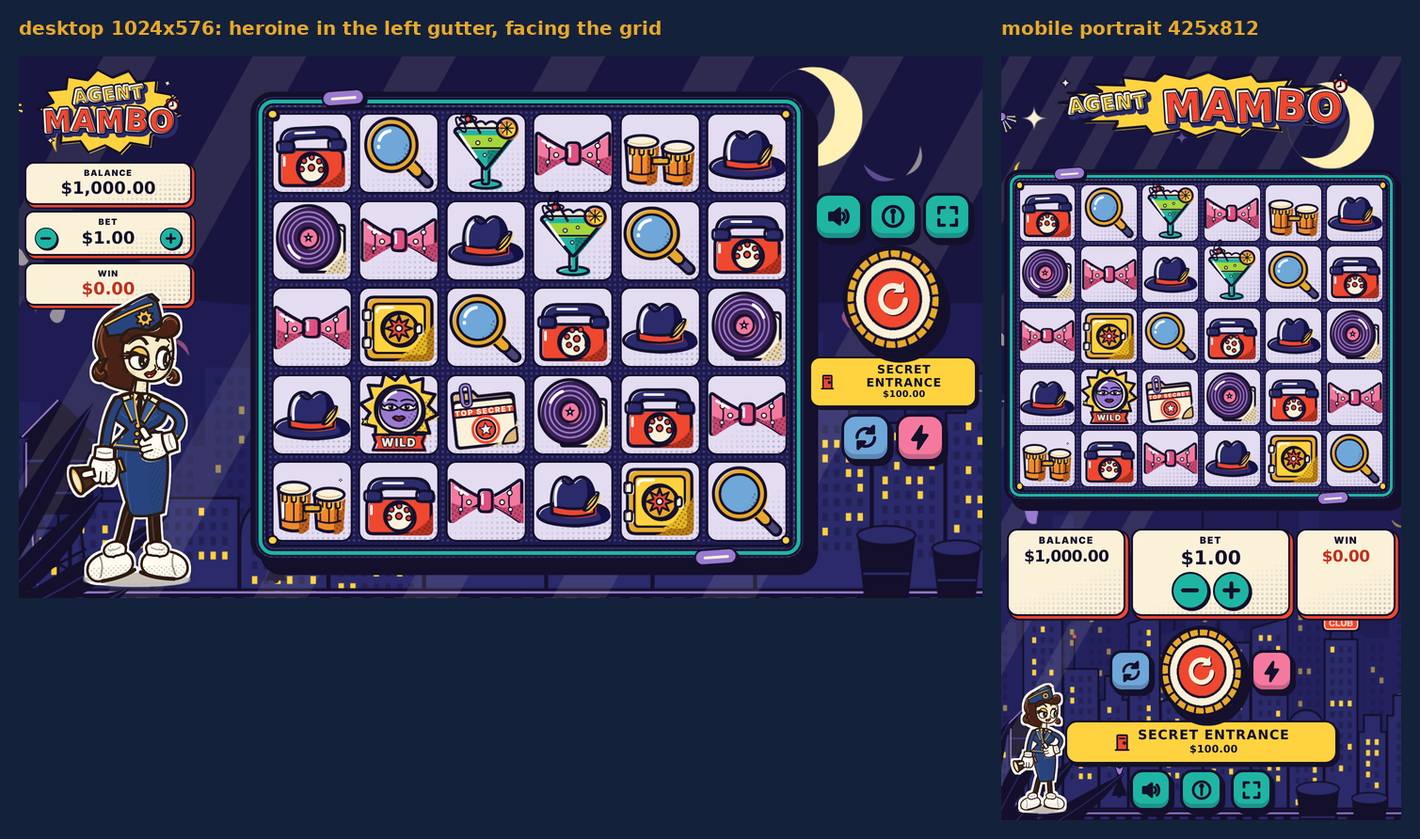
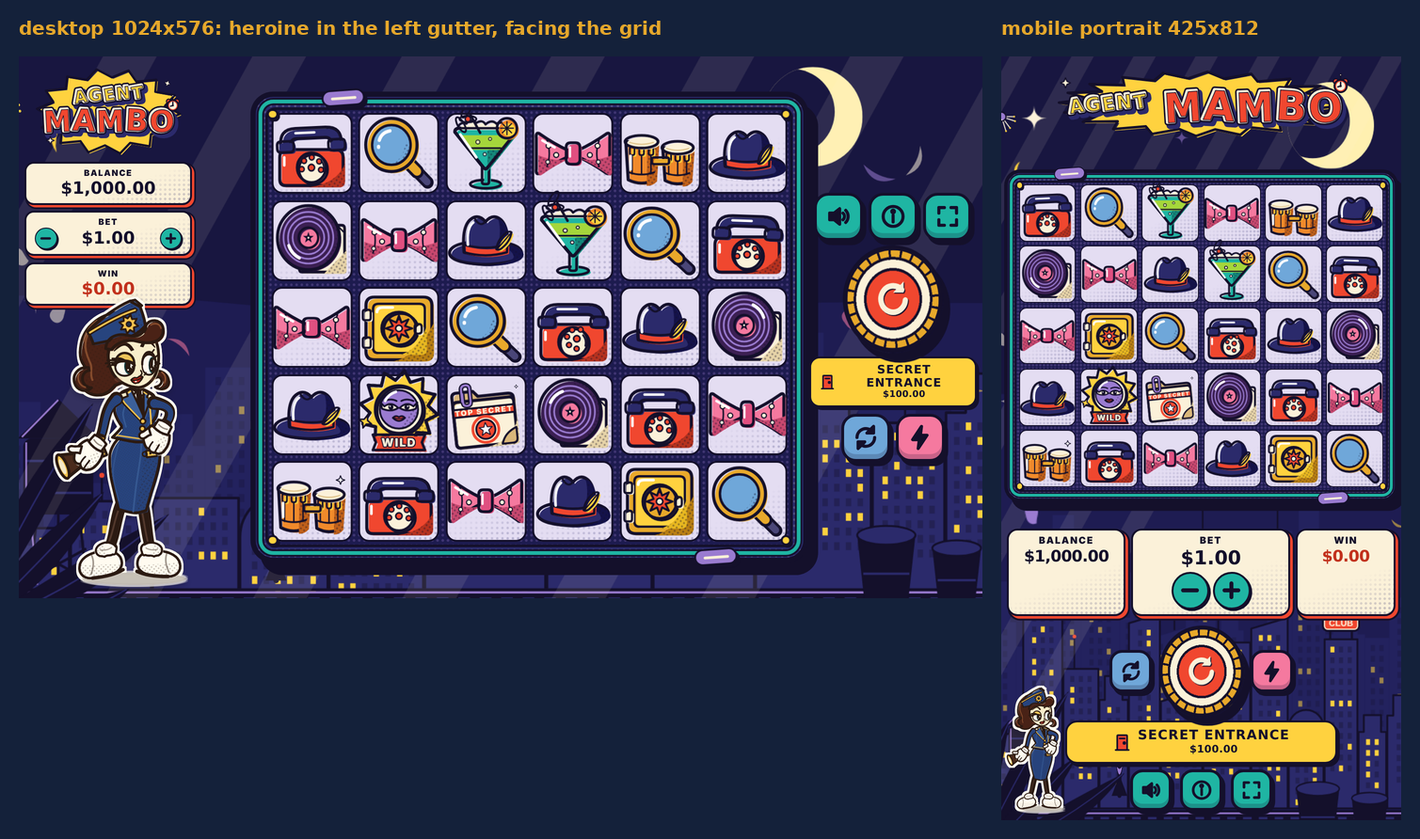
Agent Mambo v2 art pass 2: S-curve 3/4 body on all five outfits, slim tapered limbs, 11 gloves with blended thumb, new head and neck, bust and head crops, mirror option, regenerated board, sheets and mock-ups
Claude-Session: https://claude.ai/code/session_01VPnHYWw1WXuybpegvtqvRs

diff --git a/docs/research2/art/board.html b/docs/research2/art/board.html
@@ -3,51 +3,96 @@
   :root{--ink:#2B1A12;--cream:#F4E8C8;--mustard:#E8A92B;--night:#14213A;--turq:#2E8C8C}
   *{box-sizing:border-box} html,body{margin:0;background:var(--night);color:var(--cream);font-family:"Trebuchet MS",Arial,sans-serif}
   #b{width:2000px;padding:26px 30px 34px}
-  h1{margin:0 0 4px;font-size:44px;letter-spacing:.04em;color:var(--mustard);-webkit-text-stroke:0}
-  .sub{font-size:19px;margin-bottom:18px;color:#cfd8d6}
-  h2{font-size:23px;margin:22px 0 8px;color:var(--turq);text-transform:uppercase;letter-spacing:.12em}
-  .row{display:flex;gap:10px;align-items:flex-end}
-  .cell{position:relative;background:#E9B02C;border:4px solid var(--ink);border-radius:14px;overflow:visible}
-  .cell>.cap{position:absolute;left:0;right:0;bottom:0;background:rgba(43,26,18,.88);color:var(--cream);font-size:15px;padding:5px 9px;border-radius:0 0 9px 9px;z-index:3}
-  .cell .hero{position:absolute;left:0;right:0;top:0;bottom:30px}
-  .cell img{position:absolute;left:50%;top:6px;height:calc(100% - 40px);transform:translateX(-50%)}
-  .face{background:#F0C040;overflow:hidden}.face .hero{overflow:hidden}.face svg{overflow:hidden!important}
+  h1{margin:0 0 4px;font-size:44px;letter-spacing:.04em;color:var(--mustard)}
+  .sub{font-size:19px;margin-bottom:14px;color:#cfd8d6;max-width:1900px;line-height:1.35}
+  h2{font-size:23px;margin:24px 0 8px;color:var(--turq);text-transform:uppercase;letter-spacing:.12em}
+  .row{display:flex;gap:10px;align-items:flex-end;flex-wrap:wrap}
+  .cell{position:relative;background:#E9B02C;border:4px solid var(--ink);border-radius:14px;overflow:hidden;flex:none}
+  .cell.model{background:#F2BE1E}
+  .cell>.cap{position:absolute;left:0;right:0;bottom:0;background:rgba(43,26,18,.88);color:var(--cream);font-size:15px;padding:5px 9px;z-index:3}
+  .cell .hero{position:absolute;left:0;right:0;top:0;bottom:28px}
+  .cell svg.m{position:absolute;left:0;top:0;width:100%;height:calc(100% - 28px)}
+  .face{background:#F0C040}
+  .px{display:flex;gap:10px;align-items:flex-start;flex-wrap:wrap}
+  .px .cell{border-width:2px;border-radius:6px}
+  .note{font-size:16px;color:#cfd8d6;margin:4px 0 8px;max-width:1900px;line-height:1.35}
+  .hand{background:#E8B83A;border-radius:10px;border:3px solid var(--ink);position:relative;flex:none;overflow:hidden}
+  .hand b{position:absolute;left:6px;bottom:3px;font-size:14px;color:var(--ink)}
 </style></head><body><div id="b"></div>
 <script type="module">
-import { createHeroine } from './mambo_rig.mjs';
-const B = document.getElementById('b'); const q = new URLSearchParams(location.search);
-const H = 540, SM = 400;
-const label = { idle:'idle', smallwin:'small win', bigwin:'big win', shock:'shock', shrug:'lose / shrug', point:'point at grid', salute:'salute', anticipation:'anticipation', whistle:'whistle', impatient:'impatient', laugh:'laugh', curtsy:'curtsy' };
-function cell(parent, w, h, cap) { const c = document.createElement('div'); c.className = 'cell'; c.style.cssText = `width:${w}px;height:${h}px`; c.innerHTML = `<div class="hero"></div><div class="cap">${cap}</div>`; parent.appendChild(c); return c; }
-function hero(c, outfit, pose, opts = {}) {
-  const h = createHeroine(c.querySelector('.hero'), { outfit, raf: false, idle: false, limited: 0, ...opts });
-  h.setPose(pose, { snap: true }); if (opts.set) h.set(opts.set, true); h.snap();
-  const vb = opts.vb || (pose === 'point' ? '20 50 450 530' : pose === 'shrug' || pose === 'curtsy' ? '30 50 340 530' : pose === 'bigwin' || pose === 'shock' ? '45 -5 310 575' : '45 50 310 530');
-  c.querySelector('svg').setAttribute('viewBox', vb);
+// Board generator (dev tool, not shipped): model sheets (AI reference, never shipped) next to the live vector rig. Everything on the rig side is generated
+// by mambo_rig.mjs from hand-written Bezier paths. The model side is only a visual reference for the comparison.
+import { createHeroine, CROPS } from './mambo_rig.mjs';
+import { makeCtx, defsCommon, gloveKinds, GLOVE_KIND_NAMES, PAL } from './mambo_art.mjs';
+const B = document.getElementById('b');
+const SHEET = { idle: [358, 410], point: [916, 410], smallwin: [1674, 338], bigwin: [410, 1126], shock: [983, 1085], shrug: [1669, 1096] };
+const CELLRECT = { idle: [0, 0, 690, 680], point: [650, 0, 760, 680], smallwin: [1365, 0, 683, 680], bigwin: [0, 680, 690, 680], shock: [690, 680, 680, 680], shrug: [1365, 680, 683, 680] };
+const kk = 0.784, label = { idle: 'idle', smallwin: 'small win', bigwin: 'big win', shock: 'shock', shrug: 'lose / shrug', point: 'point at grid', salute: 'salute', anticipation: 'anticipation', whistle: 'whistle', impatient: 'impatient', laugh: 'laugh', curtsy: 'curtsy' };
+const VB = { point: '0 30 440 560', default: '40 30 340 560', wide: '20 30 380 560', jump: '30 -10 350 580' };
+const q = new URLSearchParams(location.search);
+function add(parent, tag, cls, html) { const e = document.createElement(tag); if (cls) e.className = cls; if (html) e.innerHTML = html; parent.appendChild(e); return e; }
+function cell(parent, w, h, cap, cls = '') { const c = add(parent, 'div', 'cell ' + cls, `<div class="hero"></div><div class="cap">${cap}</div>`); c.style.cssText = `width:${w}px;height:${h}px`; return c; }
+function hero(c, outfit, pose, o = {}) {
+  const h = createHeroine(c.querySelector('.hero'), { outfit, raf: false, idle: false, limited: 0, crop: o.crop || 'full', mirror: !!o.mirror, seed: 7 });
+  h.setPose(pose, { snap: true }); if (o.mood) h.setMood(o.mood); if (o.set) h.set(o.set, true); h.snap(); for (let i = 0; i < (o.settle ?? 14); i++) h.step(1 / 60);
+  if (o.mouth) h.setMouth(o.mouth, 0); if (o.look) h.setLook(o.look); h.render();
+  const svg = c.querySelector('.hero svg'); if (o.vb) svg.setAttribute('viewBox', o.vb); svg.setAttribute('preserveAspectRatio', 'xMidYMax meet'); svg.style.overflow = 'hidden';
   return h;
 }
-B.innerHTML = `<h1>AGENT MAMBO · the heroine, hand-built vector rig</h1><div class="sub">Part-based skeletal rig, noodle limbs rebuilt every frame, 8-viseme morphing mouth, eyes with lids / lashes / tracking pupils. Left of each pair: Higgsfield model sheet (visual reference only, not shipped). All other cells: generated live by mambo_rig.mjs from paths only.</div>`;
-// --- section 1: model vs rig
-let s = document.createElement('h2'); s.textContent = 'A · Inspectrice (base outfit): model sheet vs vector rig'; B.appendChild(s);
-let r = document.createElement('div'); r.className = 'row'; B.appendChild(r);
-const m = cell(r, 330, H, 'Model sheet (AI reference, not shipped)'); const k = (H - 40) / 1510;
-m.querySelector('.hero').style.cssText += `;background:url(higgs/base_v2_b.png) no-repeat;background-size:${1195 * k}px auto;background-position:${165 - 590 * k}px ${8 - 30 * k}px;`;
-m.style.overflow = 'hidden';
-const mine = cell(r, 330, H, 'Vector rig · idle'); hero(mine, 'inspectrice', 'idle');
-for (const p of ['smallwin', 'point', 'bigwin', 'shock']) { const c = cell(r, 330, H, 'rig · ' + label[p]); hero(c, 'inspectrice', p); }
-r = document.createElement('div'); r.className = 'row'; r.style.marginTop = '10px'; B.appendChild(r);
-for (const p of ['shrug', 'anticipation', 'whistle', 'impatient', 'laugh', 'salute', 'curtsy']) { const c = cell(r, 258, 410, 'rig · ' + label[p]); hero(c, 'inspectrice', p); }
-// --- expressions close-ups
-s = document.createElement('h2'); s.textContent = 'Expressions (same face rig, close-up)'; B.appendChild(s);
-r = document.createElement('div'); r.className = 'row'; B.appendChild(r);
-const faces = [['idle', 'sly side-eye'], ['smallwin', 'wink + grin'], ['bigwin', 'star eyes + laugh'], ['shock', 'wide eyes + O'], ['laugh', 'joy arcs'], ['whistle', 'whistle pucker'], ['shrug', 'wry eye-roll']];
-for (const [p, cap] of faces) { const c = cell(r, 250, 260, cap); c.classList.add('face'); hero(c, 'inspectrice', p, { vb: '116 56 196 176' }); }
-// --- section 2: other outfits
-const outs = [['casino', 'B · Casino evening (gown, mask, fan)'], ['lab', 'C · Laboratory (coat, butterfly glasses, test tube)'], ['vault', 'D · Vault / commando (jumpsuit, aviator cap, hook)'], ['trench', 'E · Trench and fedora (magnifying glass)']];
+function modelCell(parent, pose, w, h, vb) {
+  const [hx, hy] = SHEET[pose], [cx, cy, cw, ch] = CELLRECT[pose];
+  const c = cell(parent, w, h, 'Model sheet · ' + label[pose] + ' (AI reference, not shipped)', 'model'); c.querySelector('.hero').remove();
+  const id = 'clip' + pose, x0 = 200 - hx * kk, y0 = 346 - hy * kk;
+  c.insertAdjacentHTML('afterbegin', `<svg class="m" viewBox="${vb}" preserveAspectRatio="xMidYMax meet" xmlns="http://www.w3.org/2000/svg"><defs><clipPath id="${id}"><rect x="${x0 + cx * kk}" y="${y0 + cy * kk}" width="${cw * kk}" height="${ch * kk}"/></clipPath></defs><g clip-path="url(#${id})"><image href="higgs/pose_sheet_1.png" x="${x0}" y="${y0}" width="${2048 * kk}" height="${1360 * kk}"/></g></svg>`);
+  return c;
+}
+add(B, 'h1', '', 'AGENT MAMBO · the heroine, hand-built vector rig · art pass 2');
+add(B, 'div', 'sub', 'Part-based skeletal rig: shared S-curve body silhouette with a slight 3/4 turn toward the grid (she stands LEFT of the grid, facing right), slim tapered noodle arms and legs, 11 glove shapes with a blended thumb swap, 8-viseme morphing mouth, eyes with lids / lashes / tracking pupils. Left of each pair: the Higgsfield model sheet (visual reference only, never shipped). Every other cell is generated live by mambo_rig.mjs from hand-written paths only (no bitmap, no tracing).');
+
+// ---------------------------------------------------------------- A: six key poses vs model
+add(B, 'h2', '', 'A · Inspectrice (base outfit): model sheet vs vector rig, the six key poses');
+let r = add(B, 'div', 'row');
+for (const p of ['idle', 'point', 'smallwin', 'bigwin', 'shock', 'shrug']) {
+  const vb = p === 'point' ? VB.point : p === 'bigwin' || p === 'smallwin' ? VB.jump : VB.default;
+  modelCell(r, p, 300, 500, vb);
+  const c = cell(r, 300, 500, 'Vector rig · ' + label[p]); hero(c, 'inspectrice', p, { vb });
+}
+// ---------------------------------------------------------------- B: other poses
+add(B, 'h2', '', 'B · Other poses of the same rig (inspectrice)');
+r = add(B, 'div', 'row');
+for (const p of ['anticipation', 'whistle', 'impatient', 'laugh', 'salute', 'curtsy']) { const c = cell(r, 308, 470, 'rig · ' + label[p]); hero(c, 'inspectrice', p, { vb: VB.default }); }
+// ---------------------------------------------------------------- C: expressions
+add(B, 'h2', '', 'C · Expressions (same face rig, close-up)');
+r = add(B, 'div', 'row');
+for (const [p, cap] of [['idle', 'sly side-eye'], ['smallwin', 'wink + grin'], ['bigwin', 'star eyes + laugh'], ['shock', 'wide eyes + O'], ['laugh', 'joy arcs'], ['whistle', 'whistle pucker'], ['shrug', 'wry eye-roll']]) {
+  const c = cell(r, 250, 260, cap, 'face'); hero(c, 'inspectrice', p, { vb: '96 62 176 176' });
+}
+// ---------------------------------------------------------------- D: waist-up crop for portrait mobile
+add(B, 'h2', '', 'D · Waist-up crop for portrait mobile (crop: "bust"): real pixel size 120 px wide, then 2x');
+add(B, 'div', 'note', 'createHeroine(el, { crop: "bust" }) or h.setCrop("bust"): bust, cap and eyes stay readable at 120 px wide; the lower body is hidden and not even updated (cheaper frames). crop "head" is the face-and-cap avatar (64 px and up). Mirrored crops follow the mirror option.');
+r = add(B, 'div', 'px');
+const O5 = ['inspectrice', 'casino', 'lab', 'vault', 'trench'];
+for (const o of O5) { const c = cell(r, 120, 172, '', ''); c.querySelector('.cap').remove(); c.querySelector('.hero').style.bottom = '0'; hero(c, o, 'idle', { crop: 'bust', vb: null }); }
+for (const [o, p] of [['inspectrice', 'smallwin'], ['inspectrice', 'shock'], ['casino', 'idle'], ['lab', 'laugh']]) { const c = cell(r, 120, 172, '', ''); c.querySelector('.cap').remove(); c.querySelector('.hero').style.bottom = '0'; hero(c, o, p, { crop: 'bust' }); }
+for (const [o, p] of [['inspectrice', 'idle'], ['inspectrice', 'smallwin'], ['casino', 'idle']]) { const c = cell(r, 240, 342, '', ''); c.querySelector('.cap').remove(); c.querySelector('.hero').style.bottom = '0'; hero(c, o, p, { crop: 'bust' }); }
+for (const p of ['idle', 'smallwin', 'shock']) { const c = cell(r, 96, 106, '', ''); c.querySelector('.cap').remove(); c.querySelector('.hero').style.bottom = '0'; hero(c, 'inspectrice', p, { crop: 'head' }); }
+// ---------------------------------------------------------------- E: gloves
+add(B, 'h2', '', 'E · Glove shapes (11 kinds, the thumb exists on both sides and cross-fades: no mirror pop)');
+r = add(B, 'div', 'row');
+for (const k of GLOVE_KIND_NAMES) {
+  const c = makeCtx({ idPrefix: 'gl' + k + '-' }), kinds = gloveKinds(c, { glove: PAL.white }, 'x');
+  const d = add(r, 'div', 'hand', `<svg width="150" height="168" viewBox="-44 -22 88 98" xmlns="http://www.w3.org/2000/svg"><defs>${defsCommon(c.pre)}${c.defs.join('')}</defs>${kinds[k]}</svg><b>${k}</b>`);
+  d.style.cssText = 'width:150px;height:168px';
+}
+// ---------------------------------------------------------------- F: mirror
+add(B, 'h2', '', 'F · Mirror option (she may stand on the right of the grid: one flipped group, particles and look targets follow)');
+r = add(B, 'div', 'row');
+for (const [m, p, o] of [[false, 'point', 'inspectrice'], [true, 'point', 'inspectrice'], [true, 'idle', 'casino'], [true, 'smallwin', 'lab'], [true, 'shock', 'vault']]) { const c = cell(r, 300, 470, (m ? 'mirror · ' : 'normal · ') + o + ' ' + p); hero(c, o, p, { mirror: m, vb: m ? '0 30 440 560' : VB.point }); }
+// ---------------------------------------------------------------- G: other outfits
+const outs = [['casino', 'B · Casino evening (gown, domino mask, fan)'], ['lab', 'C · Laboratory (coat, butterfly glasses, test tube)'], ['vault', 'D · Vault / commando (jumpsuit, aviator cap, hook)'], ['trench', 'E · Trench and fedora (magnifying glass)']];
 for (const [o, t] of outs) {
-  s = document.createElement('h2'); s.textContent = t; B.appendChild(s);
-  r = document.createElement('div'); r.className = 'row'; B.appendChild(r);
-  for (const p of ['idle', 'point', 'smallwin', 'bigwin', 'shock', 'shrug']) { const c = cell(r, 318, 470, label[p]); hero(c, o, p); }
+  add(B, 'h2', '', t); r = add(B, 'div', 'row');
+  for (const p of ['idle', 'point', 'smallwin', 'bigwin', 'shock', 'shrug']) { const vb = p === 'point' ? VB.point : p === 'bigwin' || p === 'smallwin' ? VB.jump : VB.default; const c = cell(r, p === 'point' ? 360 : 300, 460, p === 'shrug' ? 'lose / shrug' : label[p]); hero(c, o, p, { vb }); }
 }
 window.__ready = true;
 </script></body></html>

diff --git a/docs/research2/art/NOTES_heroine.md b/docs/research2/art/NOTES_heroine.md
@@ -1,6 +1,6 @@
 # Mambo, the animated vector heroine (Agent Mambo v2)
 
-Author: ART agent. Status: working rig, five costumes, 12 poses, 20 clips, demo, test harness, board and mock-ups. No commit/push done.
+Author: ART agent (pass 1), ART2 agent (pass 2, see section 12). Status: working rig, five costumes, 12 poses, 20 clips, demo, test harness, board and mock-ups. Pass 2 (body redraw, gloves, crop, mirror) is committed; the running log is `docs/v2/NOTES_ART2.md`.
 
 ## 1. What was decided and why (brief history, the last brief wins)
 
@@ -12,21 +12,22 @@ Author: ART agent. Status: working rig, five costumes, 12 poses, 20 clips, demo,
 
 | File | Role |
 |---|---|
-| `mambo_art.mjs` | Palette, geometry helpers, primitives (outline + print offset + halftone), gloves (5 kinds), shoe, face (hair, face, eyes, brows, 8-viseme mouth), `faceLayout(turn)`. DOM-free. |
+| `mambo_art.mjs` | Palette, geometry helpers (`spl`, `lut`, `tubeD`), the shared body silhouette `SIL` + `garmentD`, primitives (outline + print offset + halftone + fine texture), 11 glove kinds, shoe, face (hair, face, eyes, brows, 8-viseme mouth), `faceLayout(turn)`. DOM-free. |
 | `mambo_outfits.mjs` | The 5 costumes (skirt/lower garment, torso, headgear, face gear, props). |
-| `mambo_rig.mjs` | **Runtime** (browser ES module, no dependency): `createHeroine`, `POSES`, `MOODS`, `CLIPS`, `Ease`. |
+| `mambo_rig.mjs` | **Runtime** (browser ES module, no dependency): `createHeroine`, `POSES`, `MOODS`, `CLIPS`, `CROPS`, `Ease`. |
 | `mambo_compat.mjs` | Drop-in adapter for the current mascot hook (`createMascot`, `setPose('happy'|'bigwin'|'shock'|'shrug'|'plunger'|'celebrate'...)`, `say`). |
 | `rig_demo.html` | Interactive demo: a button per clip, pose, outfit, mood, viseme, draggable look target, option toggles, frame cost readout. |
 | `rig_dev.html`, `board.html`, `hero_still.html` | Static review pages used by the scripts below. |
+| `compare.html`, `gloves.html`, `crop_test.html` | Pass 2 dev pages: model sheet vs rig vs overlay on a 10-unit grid (`?poses=idle,point&model=sheet&mode=1|2|4`), every glove kind, the waist-up crop at phone sizes. |
 | `rig_test.mjs` | Playwright harness: console errors, per-frame cost, contact sheets of clips, expression sheets (looks, visemes, eyes). |
 | `build_board.mjs`, `build_mockup.mjs`, `render_png.mjs` | Produce `heroine_board.png`, `heroine_mockup*.png`. |
 | `heroine_board.png` | Model sheet vs rig, 12 poses, 7 close-up expressions, the 4 other costumes x 6 poses. |
 | `sheets/*.png` | Contact sheets from `rig_test.mjs`: 8 gaze targets, 8 visemes, eye/lid states, 12-frame clips (winBig, shock, outfitChange, 12 more), readability at 100/300 px. |
 | `heroine_mockup.png` (1024x576), `heroine_mockup_mobile.png` (425x812), `heroine_mockup_sheet.png` | Composites on real screenshots of `frontend_mambo`, heroine on the **left** of the grid. |
 
-Run locally (any static server rooted at `docs/research2`): `python3 -m http.server 5731 --bind 127.0.0.1 --directory docs/research2`, then open `http://127.0.0.1:5731/art/rig_demo.html`. Tests: `node rig_test.mjs --out DIR --clips winBig,shock --frames 12 --dt 0.1 --perf 1 [--looks 1 --visemes 1 --eyes 1] [--reduced 1]` (Playwright from `PW_DIR`, default `/tmp/claude-0/pw`).
+Run locally (any static server rooted at `docs/research2`): `python3 -m http.server 5731 --bind 127.0.0.1 --directory docs/research2`, then open `http://127.0.0.1:5731/art/rig_demo.html`. Tests: `node rig_test.mjs --out DIR --url http://127.0.0.1:5731/art/rig_demo.html --soak 1 --crops 1 --perf 1 [--clips winBig,shock --frames 12 --dt 0.1] [--looks 1 --visemes 1 --eyes 1] [--reduced 1]` (Playwright from `PW_DIR`, default `/tmp/claude-0/pw`). `--soak` = 14,670 steps (every pose and every clip on each of the 5 outfits), `--crops` (pass 2) = 7,120 more steps through the bust / head crops and the mirror option, both must report `nonFinite: []`.
 
-Size: 107 KB of source in total (unminified: art 27 KB, outfits 23 KB, rig 57 KB, compat 3 KB). One costume = about 46 KB of SVG markup, 430 nodes, 137 named ids. Measured cost (headless Chromium, JS only, update + render): **0.17 ms average, 1-2 ms worst frame** over 600 frames of the busiest clips; the real-time demo shows ~0.6 ms average with confetti. Only attributes (`transform`, `d`, `opacity`, `display`, ellipse/rect numbers) are written, each only when its string changed. No layout reads in the frame loop (the only `getBoundingClientRect` is in `setLook({x,y})`).
+Size (pass 2): about 130 KB of source in total (unminified). One costume = about 60 KB of SVG markup (the gloves now carry 11 kinds x 2 thumbs per hand). Measured cost (headless Chromium, JS only, update + render): **0.2-0.27 ms average, 2-3 ms worst frame** over 600 frames of the busiest clips (pass 1: 0.17 ms; the limbs are now rebuilt as tapered outlines every frame); the real-time demo shows ~0.6 ms average with confetti. Only attributes (`transform`, `d`, `opacity`, `display`, ellipse/rect numbers) are written, each only when its string changed. No layout reads in the frame loop (the only `getBoundingClientRect` is in `setLook({x,y})`).
 
 ## 3. Public API
 
@@ -42,20 +43,21 @@ h.setPose('point')        // hold a pose (poses never end by themselves)
 h.setOutfit('casino', { animated: true })   // animated = paravent wipe clip, swap hidden behind the screen
 h.wink('L'|'R'), h.blink('normal'|'half'|'slow'), h.setMouth(viseme), h.fx(name), h.impulse({jump, sq, cap, hair, shake})
 h.set({param: value}), h.clear(), h.snap(), h.step(dt) /* manual stepping, tests */, h.render()
+h.setCrop('full'|'bust'|'head'), h.setMirror(bool)   // pass 2, see section 12; also options { crop, mirror } of createHeroine; h.crop / h.mirror read the state
 h.setReduced(bool), h.setIdle(bool), h.setLimited(hz), h.setSpeed(x), h.pause(), h.resume(), h.stats(), h.state(), h.destroy()
 ```
 `opts.raf:false` gives a fully manual loop (used by every test and still render). Everything is deterministic for a given `seed` (mulberry32; blink/saccade/idle director use it, clips are data).
 
 ## 4. Rig structure (what a front-end can grab)
 
-L / R always mean **screen** left / right. She faces **right** (toward the grid). viewBox `0 0 400 600`, ground y=566, figure centred on x=200, head pivot (neck) at (200,225), shoulders (161,258)/(239,258), waist (200,304), hip (200,346).
+L / R always mean **screen** left / right. She faces **right** (toward the grid) with a slight 3/4 body turn: the centre-front line of the garments sits about 14 units right of x=200 (`SIL.cl`). viewBox `0 0 400 600` (the `crop` option changes the window), ground y=566, figure centred on x=200, head pivot (neck) at (200,236), shoulders (165,253)/(232,255), waist (200,304), hip (200,346), ankles (156,524)/(234,524). The torso art is drawn in a frame lifted by `TORSO_LIFT` = 6 units (collar under the chin). `HEAD_PIVOT`, `HEAD_SCALE` and `REST` live in `mambo_art.mjs`.
 
 Group tree (all ids carry the per-instance prefix `mambo<N>-`; names below are without it):
-`root > root-t` (translate / ground-pivot rotate / squash and stretch) then `shadow`, `lower` (`legs > leg-l/-r` each `-ink` + `-fill` + `-sh` shine, `skirt > skirt-t`, `shoes > shoe-l/-r > shoe-*-t`), `upper > upper-t` (waist-pivot lean + breath) containing `arms-back`, `torso > torso-t` (chest breath; costume layer), `head > head-t` (neck-pivot tilt, offsets) with `hair-mass` (+ `hair-tuft` revealed when the cap pops), `hair-curl-l/-r`, `face`, `features` (`cheeks`, `nose > nose-s`, `eye-l`, `eye-r`, `brow-l`, `brow-r`, `mouth > mouth-s`), `face-gear` (glasses), `cap` (cap / fedora / aviator helmet), `hair-front` (fringe curl), then `arms-front > arm-l, arm-r` (`-ink`/`-fill` noodle tube, `-tri/-trf` cuff band, `hand-l/-r > hand-*-t > prop-slot-* + g-*-{fist,open,point,flat,pinch}`), `prop-store`, and a separate `fx` layer (particles, paravent).
+`mirror > root > root-t` (`mirror` = the optional horizontal flip; `root-t` = translate / ground-pivot rotate / squash and stretch) then `shadow`, `lower` (`legs > leg-l/-r` each `-ink` + `-fill` + `-sh` shine, `skirt > skirt-t`, `shoes > shoe-l/-r > shoe-*-t`), `upper > upper-t` (waist-pivot lean + breath) containing `arms-back`, `torso > torso-t` (chest breath; costume layer), `head > head-t` (neck-pivot tilt, offsets) with `hair-mass` (+ `hair-tuft` revealed when the cap pops), `hair-curl-l/-r`, `face`, `features` (`cheeks`, `nose > nose-s`, `eye-l`, `eye-r`, `brow-l`, `brow-r`, `mouth > mouth-s`), `face-gear` (glasses), `cap` (cap / fedora / aviator helmet), `hair-front` (fringe curl), then `arms-front > arm-l, arm-r` (`-ink`/`-fill` tapered noodle outline, `-tx` print texture, `-tri/-trf` cuff band, `hand-l/-r > hand-*-t > prop-slot-* + g-<l|r>-<kind>` with `kind` in `fist relax hip open splay point flat palm pinch thumbup wave`, each with two thumbs `-ta` / `-tb` cross-faded by the runtime), `prop-store`, and a separate `fx` layer (particles, paravent).
 
 Per eye (`eye-l`, `eye-r`): `-sclera`, `-iris` (group: `-iris-disc`, `-pupil`, `-glint`, turquoise rim light), `-stars` (star eyes), `-lower` (lower lid), `-lidfill` (upper lid / eyeshadow), `-upper` (upper outline, fades as the lid closes), `-lashline` (heavy lid line with liner flick), `-lashes` (5 lashes near eye, 3 far eye, direction flips from up-out to down-out as the lid closes); brows are independent paths. Mouth: `m-lips`, `m-cav` (cavity, clipped via `m-clipd`), `m-teeth`, `m-tongue`, `m-seam`, `m-gloss`, `m-dimple`.
 
-Animation channels (all springs, `state()` returns the live values): root `rx rrot sq spin`, body `hipX hipTilt ux uy lean shr`, legs `lax lay lb1 lb2 lsr lsf` / `rax ...` (ankle offsets, noodle bends, shoe rotation and flip), head `hx hy htilt turn` (turn = 3/4 face turn, moves and foreshortens the features), eyes `uL uR` (lid openness), `joyL joyR`, `lowL lowR`, `slL slR` (lid slant), `wide pup stars lookx looky`, brows `bL{y,r,a}` `bR{y,r,a}`, cap `cy cr`, arms `al{x,y,b1,b2,r,sx,sy}` / `ar{...}` (wrist target, two noodle bend values, glove roll and squash), `acc` (absolute prop angle), `beam`, `blush`. Discrete channels: glove kind per hand, prop hand, prop2 hand, layer front/back, viseme. Secondary springs (damped, driven by head linear and angular acceleration plus a slow wind term): `hair`, `curlL`, `curlR`, `bangs`, `cap`, `skirt`, `whistle`, `scarf1`, `scarf2`.
+Animation channels (all springs, `state()` returns the live values): root `rx rrot sq spin`, body `hipX hipTilt ux uy lean shr sho` (sho = shoulder-line tilt of the torso and the arm roots, the S-curve control), legs `lax lay lb1 lb2 lsr lsf` / `rax ...` (ankle offsets, noodle bends, shoe rotation and flip), head `hx hy htilt turn` (turn = 3/4 face turn, moves and foreshortens the features), eyes `uL uR` (lid openness), `joyL joyR`, `lowL lowR`, `slL slR` (lid slant), `wide pup stars lookx looky`, brows `bL{y,r,a}` `bR{y,r,a}`, cap `cy cr`, arms `al{x,y,b1,b2,r,sx,sy}` / `ar{...}` (wrist target, two noodle bend values, glove roll and squash), `acc` (absolute prop angle), `beam`, `blush`. Discrete channels: glove kind per hand (11 kinds), prop hand, prop2 hand, layer front/back, viseme. Secondary springs (damped, driven by head linear and angular acceleration plus a slow wind term): `hair`, `curlL`, `curlR`, `bangs`, `cap`, `skirt`, `whistle`, `scarf1`, `scarf2`.
 
 Pivots to animate natively from outside: neck (200,225), waist (200,304), hip (200,346), shoulders, ankles (166,524)/(238,524); `PIVOTS`-style table is `REST` in `mambo_art.mjs`.
 
@@ -103,7 +105,9 @@ Old-hook compatibility: `createMascot(hostEl, {size, bubble})` from `mambo_compa
 
 `heroine_mockup.png` / `_mobile.png` / `_sheet.png`. Desktop: the left column of the current layout (177 px wide, 299 px high under the HUD) fits her at about 350 px tall (cap just below the WIN panel); she reads clearly with a cream die-cut rim (`rim` option only in the stills: the live rig has no filter, a 2-px drop-shadow stack on the host element gives the same rim at about 0.3 ms per frame in my tests, not enabled by default). For "big on desktop" the host should give her a left gutter of about 240 px and move the three HUD panels out of that column (or let her stand behind them), then she can be 420-480 px tall (jump headroom of 25 % above the head must stay free or `overflow:visible`). Portrait 425x812: there is no free vertical room; the mock puts her small (156 px) in the bottom-left corner beside the autoplay/spin buttons, overlapping the left end of the SECRET ENTRANCE button, which is a compromise. Better options for the integrator: waist-up crop leaning on the top edge of the board (change `svg viewBox` to `60 40 300 300`), or hide her in portrait and keep only the eyes-and-hat peek.
 
-Mirroring: she faces right by design (toward the grid on her right). Do not mirror with `scaleX(-1)` (the cap star, badge and the whistle chain would flip): if she ever moves to the right of the grid, redraw with `turn` negative values instead (the face layout supports `turn` from 0 to 1.2 only, i.e. not yet mirrored; flagged below).
+Mirroring (pass 2): she faces right by design. `createHeroine(el, { mirror: true })` or `h.setMirror(true)` wraps the whole figure in one flipped group (`translate(400 0) scale(-1 1)`) and mirrors the viewBox crop, particle spawns, pixel look targets and `wink('L'|'R')` (screen side; `'near'`/`'far'` address the eye by depth). Cost: one transform. Use it only if the layout puts her on the right of the grid.
+
+Portrait mobile (pass 2): `createHeroine(el, { crop: 'bust' })` (or `createMascot(host, { crop: 'bust' })`) shows waist-up only (viewBox `86 24 226 322`: cap, eyes, bust, both hands in the idle poses), hides and stops updating the legs, skirt and shadow, and clips with `overflow:hidden`. It reads at 120 px wide (see board section D) and works with every outfit. `crop: 'head'` is the face-and-cap avatar (96 px wide and up).
 
 ## 8. [217] discipline (no sexual content, no minors) and platform notes
 
@@ -118,9 +122,9 @@ Mirroring: she faces right by design (toward the grid on her right). Do not mirr
 
 ## 9. Known flaws and limits (honest list)
 
-* Look: the rig is cute and on-model in spirit but **less elegant than the Higgsfield model sheet** (shorter, chunkier, symmetrical torso; the model's 3/4 body twist, bust highlights and S-curve are not reproduced; hand-on-hip forearm reads a bit stiff). A second drawing pass on torso/hip contours and glove shapes would close most of the gap.
-* Hands: the five glove kinds are simple mitts (3 fingers + thumb, cuff). A pose that needs a new hand (e.g. thumbs-up, applause) needs a new glove kind. The thumb flips automatically so it stays on top when the arm points sideways (a one-frame mirror pop).
-* The far eye and far brow are foreshortened by `turn`; at `turn` > 1.1 the far eye touches the face edge. Mirroring (character on the other side) is not supported.
+* Look (updated after pass 2): the body now has an S-curve, a 3/4 turn and slim tapered limbs, but the rig is still a little **less voluptuous and less fluid than the Higgsfield model sheet** (flatter hip, the head sits a bit large and round, no bust highlight, rubber-hose limbs are straighter than the model's). This is deliberate for [217] (the silhouette stays modest) and for limited-animation readability.
+* Hands (pass 2): 11 glove kinds (3 fingers + thumb + cuff). The thumb is drawn on both sides of the hand and the runtime cross-fades them in about 0.15 s when the arm direction would put it below the hand (no mirror flip, no pop). A hand that is not in the list needs a new entry in `GLOVE_DEFS` (`mambo_art.mjs`).
+* The far eye and far brow are foreshortened by `turn`; at `turn` > 1.1 the far eye touches the face edge. Mirroring is now supported (section 12) as a flipped group: the cap star, badge and whistle chain are mirrored with it (acceptable, they are symmetric 8-point shapes), the eyes swap sides, so `wink('L')` is a SCREEN side.
 * Shoes: a single shape; toe flip is a scale through zero (cartoon snap). The casino gown hides the legs, so leg poses (kick, cross) only show as shoes peeking at the hem.
 * Props: only one main prop per hand and one secondary item (`prop2`: chips, clipboard) shown on a few poses; the rope of the grappling hook is a static coil.
 * Hair and cap springs are tuned by eye on the base costume; the aviator helmet and fedora use the same spring gains.
@@ -140,3 +144,18 @@ Mirroring: she faces right by design (toward the grid on her right). Do not mirr
 * New costume: add an object to `OUTFIT_DEFS` in `mambo_outfits.mjs` with `sleeve`, `glove`, `legs`, `shoe`, `lidFill`, `skirt(c)`, `torso(c)`, `head(c)`, optional `gear(c)` / `maskUnder(c)` / `hairTop(c)`, `prop(c)` / `prop2(c)`, `accBase`/`accGain`, `capOver`, `shoesUnder`; add its key to `OUTFIT_KEYS`.
 * New clip: add an entry to `CLIPS` (tracks or events) or pass `{clips:{myClip:{...}}}` to `createHeroine`.
 * New pose: add a sparse object to `POSES` (wrist targets are in the upper-body rest coordinates, see the existing ones); preview with `rig_dev.html?poses=mypose&grid=209,231`.
+
+## 12. Art pass 2 (ART2 agent): what changed and what to know
+
+User feedback on pass 1: torso nearly symmetrical, no 3/4 twist or S-curve, stiff hand-on-hip forearm, chunky, five glove shapes with a thumb-flip pop. Pass 2 redraws the body in code (still pure hand-written Bezier geometry, nothing traced from the model sheets, which stay a visual reference and were only used as an overlay in `compare.html`).
+
+* **Shared body silhouette** (`SIL`, `silBack/silFront/silCl`, `garmentD()` in `mambo_art.mjs`): one set of knot tables (back edge, front edge, centre-front line at 14 heights from collar to hem) drives the torso and lower garment of **all five outfits**, so they share one S-curve body (chest tipped back, waist tucked at y~306, pelvis pushed out, slim pencil knee) with the closure line shifted 12-16 units to the right (3/4 turn toward the grid). Each outfit adds its own ease/flare through `eB`/`eF` callbacks (`flare()` in `mambo_outfits.mjs` for the gown, coat and trench) and its own details (lapels in 3/4 view with a wide near lapel and a sliver far lapel, princess seams, belt on the centre line, shifted buttons).
+* **Slimmer limbs**: arms and legs are tapered closed outlines (`tubeD`, width 10.2 -> 8.2 for arms plus a rounded sleeve head, 12.2 -> 8.3 with a slight calf for legs) instead of fat constant strokes; body outline 5 units (was 4.6), limb outline 4.6; shoes 0.88x, gloves 0.92x; fine print-screen texture (`tex`) on garments.
+* **Hands**: 11 kinds (`fist relax hip open splay point flat palm pinch thumbup wave`), finger sausages with round tips on a puffy palm, curved tapered thumbs. Both thumb sides exist per hand and the runtime cross-fades them (`gthumb` in the rig): no flip, no pop (tested: opacity 1 -> 0.74 -> 0.55 -> ... -> 0.02 over about 15 frames). The old poses were re-posed with the new kinds (hand on hip uses `hip`, shock `flat`, shrug `palm`, impatient/laugh `relax`/`flat`).
+* **Head and neck**: head moved 14 units toward the body line (`HEAD_PIVOT` x -9 -> 5), neck pivot lowered to y 236 with a longer tapered neck, narrower chin, hair redrawn as a waved page-boy with crescent flips (no closed ring, so no hoop-earring reading), the face itself (half-lidded long lashes, raised brow, glossy red smirk) is unchanged.
+* **Poses**: new `sho` channel (shoulder tilt) and an S-curve idle (hip out, shoulder tilted, head counter-tilted, hand on hip with a relaxed forearm), re-posed point, smallwin (leg kick), bigwin, shock, shrug, anticipation, whistle, impatient, laugh, salute, curtsy against the model sheet (`board.html`, section A). Old channel values still work.
+* **New API**: `crop` (`full | bust | head`), `mirror`, `setCrop`, `setMirror`, `CROPS` export, `wink('near'|'far')`; `mambo_compat.createMascot` accepts `{ crop, mirror }`. Every pre-existing API, id and pose name is kept (the soak test passes unchanged: 14,670 steps, no non-finite value, no console error); ids that changed in a compatible way: arm and leg `-ink`/`-fill` now hold closed outlines (they still exist with the same names), glove groups are `g-<l|r>-<kind>` with `-ta`/`-tb` thumbs.
+* **Iterations** (each time compared to the model sheet and re-rendered): 1) silhouette tables + new torso and limbs, 2) gloves and thumb blend, hand-on-hip pose, 3) neck, head and shoulder positions (overlay on the model), 4) the six key poses against the pose sheet, 5) other outfits and texture, 6) crop and mirror. Final comparison board: `heroine_board.png` (section A is the model-vs-rig comparison for idle, point, smallwin, bigwin, shock, shrug).
+* **[217] check on the redraw**: all five garments remain fully covering (V-neck with shirt, tie, buttoned jacket, knee-length pencil skirt, black tights, gloves; gown with high gold collar and long gloves, no slit; coat closed to the knee; jumpsuit with scarf; trench to the knee). The S-curve is modest (waist 48 vs hips 84 units at rest, ratio 0.57 against 0.55 in pass 1), no cleavage, no arched pose (the idle hip tilt is 2-3 degrees), no clothing removal. The model sheet's stronger bust and hip curves were not copied.
+* **Known pass-2 flaws**: the bust crop cuts the hands in poses with raised arms (bigwin, salute) because it is designed for idle and reaction poses on mobile; the idle hand-on-hip glove overlaps the jacket hem by design; the lower leg is straighter than the model's rubber-hose bend; frame cost went from 0.17 to about 0.25 ms (tapered outlines rebuilt per frame), still negligible.
+* The Higgsfield sheets are still **reference only** and `heroine_board.png` still contains them for comparison: do not ship the board.

diff --git a/docs/v2/NOTES_ART2.md b/docs/v2/NOTES_ART2.md
@@ -20,3 +20,8 @@ variant for portrait mobile (readable at 120 px wide). Mirror only if cheap. [21
 
 ## Log
 * [start] read the spec/notes/code, built compare.html, measured the model (hip 83, waist ~48, bust ~73 rig units; closure line at about +12 right of the body centre line; arm total width ~16, leg ~18).
+* [done] Pass 2 complete and committed. Iterations: (1) SIL silhouette tables + `garmentD` + tapered limbs (`tubeD`), (2) 11 gloves + thumb cross-fade, S-curve idle with hand on hip, (3) neck / head / shoulder alignment by overlay on the model sheet, (4) the six key poses re-posed against the pose sheet (`compare.html?model=sheet`), (5) other four outfits rebuilt on the shared silhouette + print texture, (6) crop (`bust`, `head`) and mirror, `--crops` soak.
+* Decisions: SIL tables are the single source of body truth (every outfit calls `garmentD`); thumbs are drawn on both sides and cross-faded (no flip); the mirror is a group flip (the star badge stays an 8-point star, symmetric); crop `bust` hides and stops updating the lower body; `wink('L'|'R')` is a SCREEN side.
+* Verification: `node rig_test.mjs --soak 1 --crops 1 --perf 1` -> 14,670 + 7,120 steps, no non-finite value, 0 console errors, avg 0.27 ms / max 2.2 ms. `node --test tests/core tests/text` in frontend_mambo: 60 pass. Looked at: compare overlays, the 12-pose sheet, board sections A-G, bust crops at 120 px, mirror, compat adapter with crop, clips winBig / shock / outfitChange.
+* Flaws left: see NOTES_heroine.md section 12 (bust crop cuts raised hands, legs straighter than the model, hips still more modest than the model by design).
+* Ports used: 5810 (static art server), 5811 (game static server), 5812 (mock RGS) for the mock-up regeneration; all stopped.
